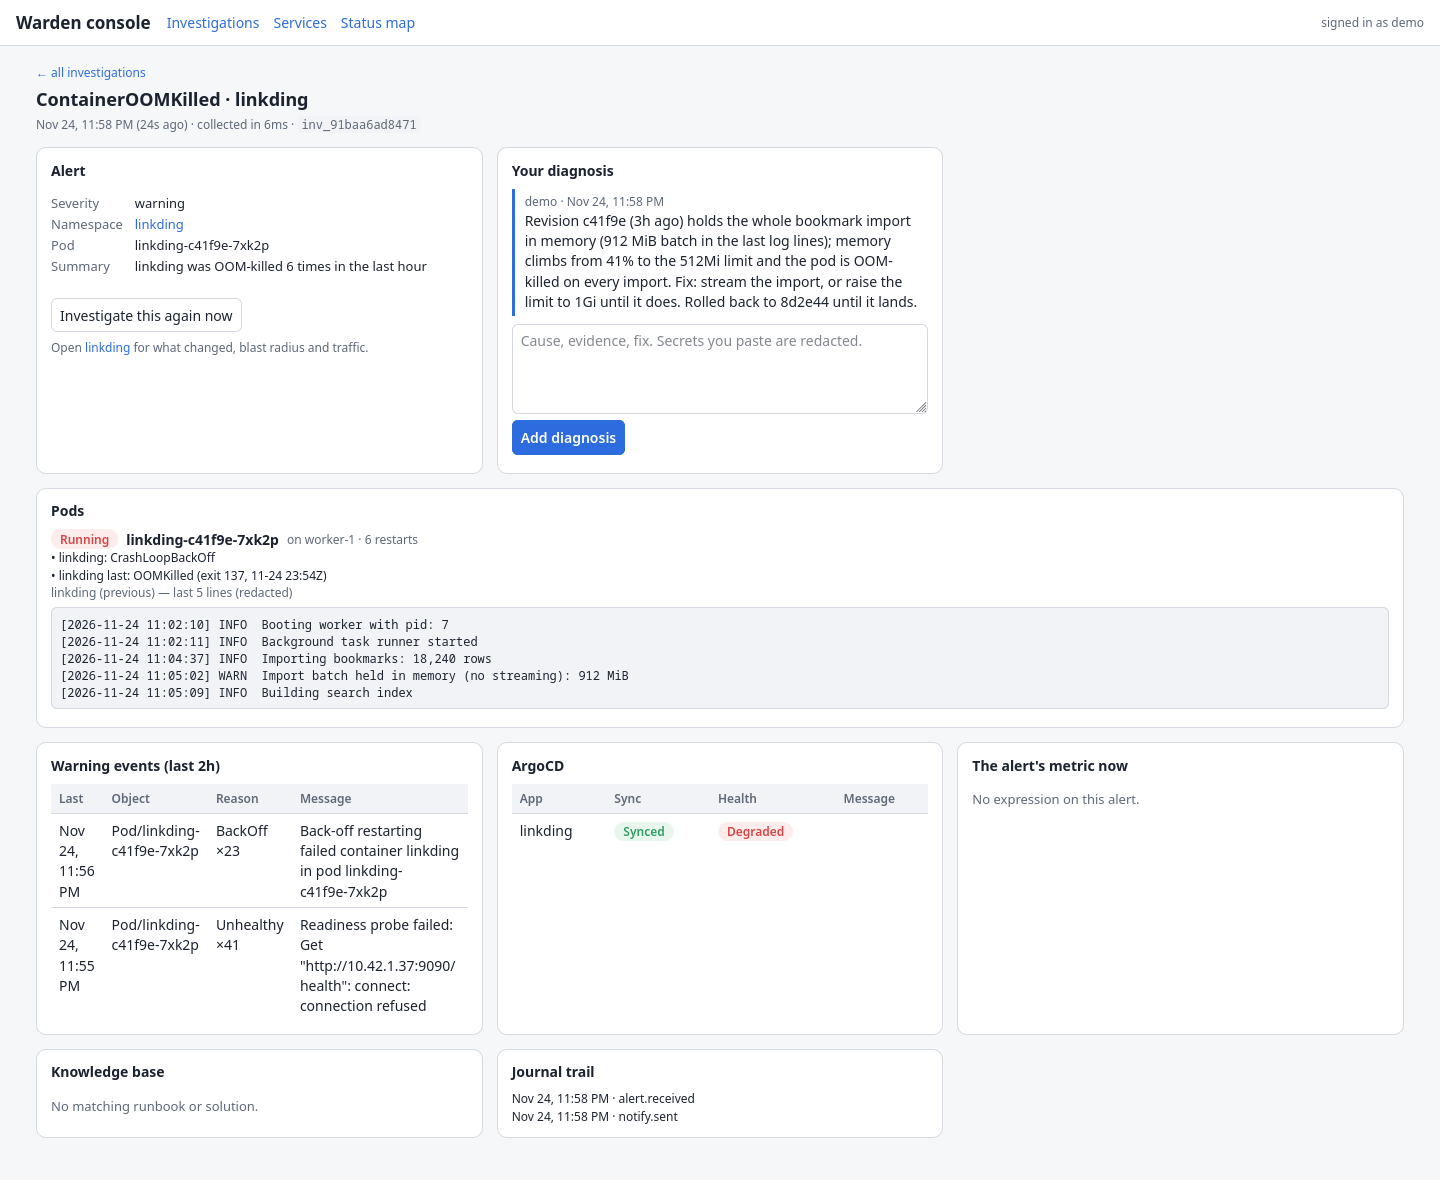
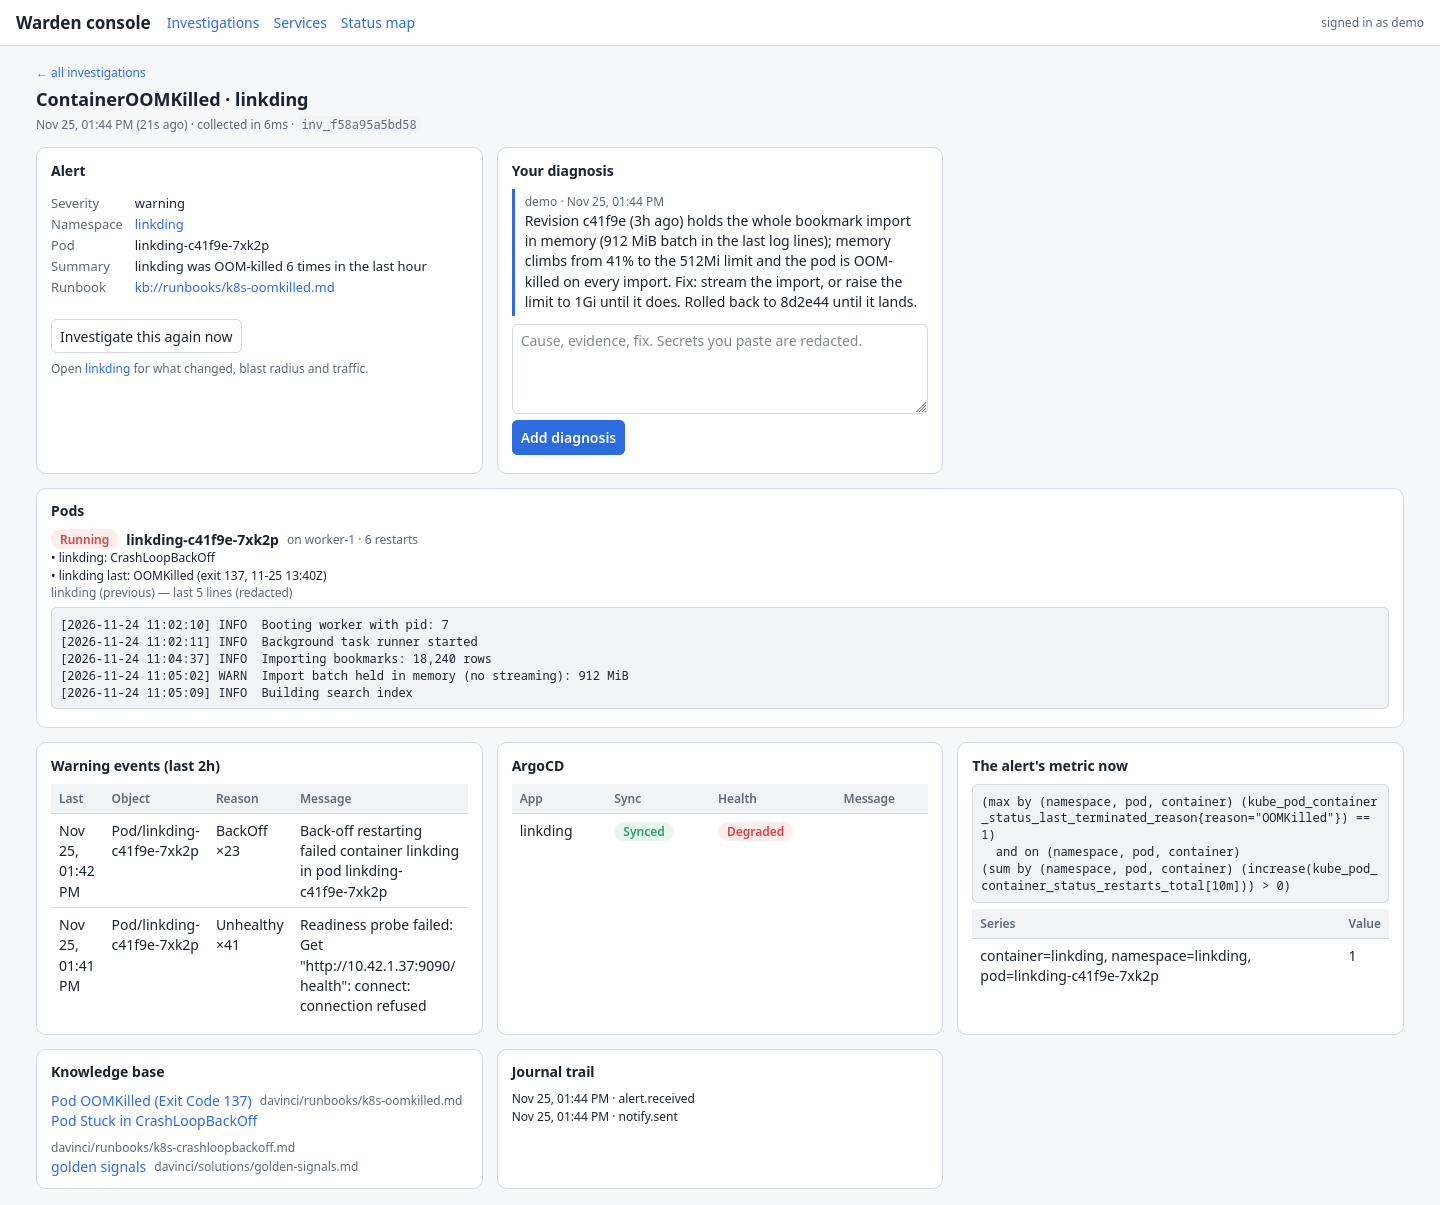
docs: complete investigation screenshot, scripts/screenshots.sh, badges
- warden-demo: the seeded alert carries Homelab's ContainerOOMKilled rule
  and runbook_url, and indexes a small stand-in knowledge base at DaVinci's
  paths, so the investigation page shows the rule evaluated now and KB hits
  instead of two empty panels.
- scripts/screenshots.sh regenerates all five README images in one command
  (replaces the manual Firefox recipe); services is cropped on a row.
- README: CI/image/Go badges, GET /console/api/whoami in the API table,
  fuller investigation caption, scripts/ in the layout. AGENTS.md points to
  the script.

Claude-Session: https://claude.ai/code/session_01XVAZikthQmgeJ2WQeL8ATi

diff --git a/cmd/warden-demo/main.go b/cmd/warden-demo/main.go
@@ -18,6 +18,7 @@ import (
 	"log/slog"
 	"net/http"
 	"net/http/httptest"
+	"net/url"
 	"os"
 	"os/signal"
 	"path/filepath"
@@ -53,11 +54,15 @@ func main() {
 	}
 	defer j.Close()
 
+	kbDir, err := demo.WriteKB(dir)
+	if err != nil {
+		fail(err)
+	}
 	src := demo.New(time.Now())
 	hosts := map[string]string{"grafana": "monitoring"}
 	srv := &server.Server{
 		J: j, Enabled: true, DailyCap: 40, Log: logger, Version: "demo",
-		Runner:     &investigate.Investigator{Kube: src, Metrics: src, KB: &kb.Index{}, Hosts: hosts},
+		Runner:     &investigate.Investigator{Kube: src, Metrics: src, KB: &kb.Index{Roots: []kb.Root{{Label: "davinci", Dir: kbDir}}}, Hosts: hosts},
 		Map:        &statusmap.Builder{Kube: src, Metrics: src, Hosts: hosts},
 		Services:   &services.Builder{Kube: src, Metrics: src, Kuma: src, Hosts: hosts, MonitorNS: demo.MonitorNS},
 		Console:    &console.Console{Kube: src, Metrics: src, J: j},
@@ -102,8 +107,11 @@ func seed(ctx context.Context, h http.Handler, src *demo.Source) error {
 		"status": "firing", "fingerprint": "demo-oom",
 		"labels": map[string]string{"alertname": "ContainerOOMKilled", "severity": "warning",
 			"namespace": "linkding", "pod": "linkding-c41f9e-7xk2p", "container": "linkding"},
-		"annotations": map[string]string{"summary": "linkding was OOM-killed 6 times in the last hour"},
-		"startsAt":    src.Now.Add(-48 * time.Minute),
+		"annotations": map[string]string{"summary": "linkding was OOM-killed 6 times in the last hour",
+			"runbook_url": "kb://runbooks/k8s-oomkilled.md"},
+		// Homelab's ContainerOOMKilled rule, as vmalert links it.
+		"generatorURL": "http://vmalert.monitoring.svc:8080/vmalert/alert?g0.expr=" + url.QueryEscape(oomRule),
+		"startsAt":     src.Now.Add(-48 * time.Minute),
 	}}}
 	b, _ := json.Marshal(alert)
 	if _, err := call(http.MethodPost, "/alerts", string(b)); err != nil {
@@ -133,6 +141,10 @@ func seed(ctx context.Context, h http.Handler, src *demo.Source) error {
 	}
 	return nil
 }
+
+const oomRule = `(max by (namespace, pod, container) (kube_pod_container_status_last_terminated_reason{reason="OOMKilled"}) == 1)
+  and on (namespace, pod, container)
+(sum by (namespace, pod, container) (increase(kube_pod_container_status_restarts_total[10m])) > 0)`
 
 func fail(err error) {
 	fmt.Fprintln(os.Stderr, "warden-demo:", err)

diff --git a/internal/demo/kb.go b/internal/demo/kb.go
@@ -1,0 +1,35 @@
+package demo
+
+import (
+	"embed"
+	"io/fs"
+	"os"
+	"path/filepath"
+)
+
+// kbFiles are short stand-ins for the DaVinci knowledge base, at the same
+// paths, so the demo's KB hits link to the real documents.
+//
+//go:embed kb
+var kbFiles embed.FS
+
+// WriteKB copies the demo knowledge base under dir and returns the root to
+// index (label "davinci", as in production).
+func WriteKB(dir string) (string, error) {
+	root := filepath.Join(dir, "kb")
+	err := fs.WalkDir(kbFiles, "kb", func(p string, d fs.DirEntry, err error) error {
+		if err != nil {
+			return err
+		}
+		out := filepath.Join(dir, filepath.FromSlash(p))
+		if d.IsDir() {
+			return os.MkdirAll(out, 0o755)
+		}
+		b, err := kbFiles.ReadFile(p)
+		if err != nil {
+			return err
+		}
+		return os.WriteFile(out, b, 0o644)
+	})
+	return root, err
+}

diff --git a/internal/demo/demo_test.go b/internal/demo/demo_test.go
@@ -2,6 +2,8 @@ package demo
 
 import (
 	"context"
+	"os"
+	"path/filepath"
 	"testing"
 	"time"
 
@@ -58,5 +60,17 @@ func TestDemoServesEveryPage(t *testing.T) {
 	b, err := c.Blast(ctx, "linkding")
 	if err != nil || len(b.Errors) != 0 || len(b.Callers) == 0 {
 		t.Fatalf("blast: %v %+v", err, b)
+	}
+}
+
+func TestWriteKB(t *testing.T) {
+	root, err := WriteKB(t.TempDir())
+	if err != nil {
+		t.Fatal(err)
+	}
+	for _, p := range []string{"runbooks/k8s-oomkilled.md", "runbooks/k8s-crashloopbackoff.md", "solutions/golden-signals.md"} {
+		if _, err := os.Stat(filepath.Join(root, p)); err != nil {
+			t.Error(err)
+		}
 	}
 }

diff --git a/internal/demo/demo.go b/internal/demo/demo.go
@@ -343,6 +343,9 @@ func (s *Source) Query(_ context.Context, expr string, _ int) ([]vm.Sample, erro
 		}
 		return out, nil
 	}
+	if strings.Contains(expr, "last_terminated_reason") { // the story's ContainerOOMKilled rule
+		return []vm.Sample{{Labels: map[string]string{"namespace": "linkding", "pod": "linkding-c41f9e-7xk2p", "container": "linkding"}, Value: "1"}}, nil
+	}
 	if strings.Contains(expr, "increase(") && strings.Contains(expr, "> 0") {
 		return s.blast(expr), nil
 	}

diff --git a/README.md b/README.md
@@ -1,5 +1,9 @@
 # Warden
 
+[![CI](https://github.com/Blacklotus89898/Warden/actions/workflows/ci.yaml/badge.svg)](https://github.com/Blacklotus89898/Warden/actions/workflows/ci.yaml)
+[![image](https://github.com/Blacklotus89898/Warden/actions/workflows/build-image.yaml/badge.svg)](https://github.com/Blacklotus89898/Warden/actions/workflows/build-image.yaml)
+![Go 1.25](https://img.shields.io/badge/go-1.25-00ADD8)
+
 A read-only incident investigator for the homelab. When an alert fires, Warden
 collects the evidence (pods, logs, events, ArgoCD, nodes, the alert's metric,
 runbooks), journals it and pushes a short digest to your phone. Its pages
@@ -49,8 +53,10 @@ diagnosed it yet. Behind authentik. [Details](#console).
 
 ![One investigation: the alert, your diagnosis, the crash-looping pod with its last log lines, warning events and ArgoCD state](docs/images/investigation.png)
 
-One investigation holds the evidence bundle and your diagnosis: what
-happened, why, and what fixed it. Diagnoses are append-only, and they become
+One investigation holds the evidence bundle (the pod and its previous
+container's last log lines, warning events, ArgoCD, the alert's rule
+evaluated now, matching runbooks) and your diagnosis: what happened, why,
+and what fixed it. Diagnoses are append-only, and they become
 the eval set for later phases.
 
 ![Namespace view: current signals and monitors, blast radius from observed mesh traffic, a what-changed timeline from deploy to OOM kill, and traffic charts](docs/images/namespace.png)
@@ -235,6 +241,7 @@ grouped as on the Kuma status page.
 | `GET /map` | the status map page: host → nodes → platform → observability → apps → front doors |
 | `GET /map.json` | the data behind it (rebuilt at most every 15s) |
 | `GET /console` | the operator console (behind authentik at the gateway) |
+| `GET /console/api/whoami` | the signed-in user, `WARDEN_ENABLED` and the version |
 | `GET /console/api/investigations[/{id}]` | investigations with source and diagnosis state; one bundle with its trail and diagnoses |
 | `POST /console/api/investigate` | `{"namespace","pod","node"}`: run the collectors now (journal only, no push) |
 | `POST /console/api/investigations/{id}/diagnosis` | `{"text"}`: append your diagnosis |
@@ -278,7 +285,8 @@ go run ./cmd/warden-demo          # every page on a made-up homelab, no cluster 
 
 The demo uses the real server, journal, collectors and pages, with fake
 Kubernetes, VictoriaMetrics and Uptime Kuma sources (`internal/demo`). It
-seeds an alert investigation, an operator investigation and a diagnosis,
+seeds an alert investigation (with its rule expression and knowledge-base
+hits from a small stand-in KB), an operator investigation and a diagnosis,
 and signs you into the console as `demo`. Nothing is pushed, and its journal
 is a temporary file that is removed on exit. Use it to work on a page:
 change the HTML, rerun, and reload.
@@ -290,13 +298,10 @@ go test ./...     # includes boundary_test.go: never weaken it to make a change 
 go build .        # the real binary; it only runs in-cluster (kube.InCluster)
 ```
 
-**Screenshots** in `docs/images/` come from the demo. Start it, then capture
-each page at 1440px wide:
-`/map`, `/services#range=24h&open=linkding`, `/console#/`,
-`/console#/inv/<the ContainerOOMKilled id>` and `/console#/ns/linkding`.
-For example, `firefox --headless --screenshot out.png --window-size=1440,1000 <url>`
-works, but it captures on page load, so delay the page until its data has
-rendered.
+**Screenshots** in `docs/images/` come from the demo:
+`scripts/screenshots.sh` (needs `python3` and `firefox`) starts it, captures
+the five pages at 1440px wide and stops it. Rerun it after a visible UI
+change and commit the images with the change.
 
 **Ship:** merge to `main`. `build-image.yaml` publishes
 `ghcr.io/blacklotus89898/warden:<sha>`. Bump that SHA in Homelab
@@ -326,6 +331,7 @@ internal/console       /console data: timeline, traffic, blast radius (+ console
 internal/authjwt       verifies authentik's X-Authentik-Jwt against the provider JWKS
 internal/server        HTTP handlers, grouping, rate limits, console guards
 internal/demo          fake sources for cmd/warden-demo (not used by the real binary)
+scripts/screenshots.sh regenerates docs/images from the demo
 ```
 
 Pages are single embedded HTML files with inline JS (no build step, no

diff --git a/AGENTS.md b/AGENTS.md
@@ -26,7 +26,7 @@ go run ./cmd/warden-demo     # every page on fake data at http://localhost:8080 
 
 The real binary (`go build .`) only runs in-cluster. Use the demo to see a UI change. When a
 page starts reading something new, extend `internal/demo` so `TestDemoServesEveryPage` stays
-green, and refresh the affected screenshot in `docs/images/` (README "Getting started").
+green, and rerun `scripts/screenshots.sh` to refresh `docs/images/` (README "Getting started").
 
 CI (`.github/workflows/ci.yaml`) runs vet/build/test on PRs and `main`;
 `build-image.yaml` publishes `ghcr.io/blacklotus89898/warden:<sha>` from `main`.
@@ -37,7 +37,8 @@ See README "Layout". In short: `main.go` wiring; `internal/kube` is the ONLY Kub
 client (GET on a fixed catalogue); `internal/investigate` collectors; `internal/statusmap`,
 `internal/services`, `internal/console` back the three pages (each embeds its HTML);
 `internal/authjwt` verifies the console user; `internal/server` handlers and limits;
-`internal/demo` + `cmd/warden-demo` are fake sources for local work, never used in production.
+`internal/demo` + `cmd/warden-demo` are fake sources for local work, never used in production;
+`scripts/screenshots.sh` regenerates the README images from the demo.
 
 ## Non-negotiables
 

diff --git a/internal/demo/kb/runbooks/k8s-oomkilled.md b/internal/demo/kb/runbooks/k8s-oomkilled.md
@@ -1,0 +1,6 @@
+# Pod OOMKilled (Exit Code 137)
+
+Demo stand-in for the DaVinci runbook of the same path. The container went
+past resources.limits.memory and the kernel killed it (OOMKilled, exit 137).
+Compare the working set with the limit before and after the last deploy;
+raise the limit in git, or find what holds the memory.

diff --git a/internal/demo/kb/runbooks/k8s-crashloopbackoff.md b/internal/demo/kb/runbooks/k8s-crashloopbackoff.md
@@ -1,0 +1,5 @@
+# Pod Stuck in CrashLoopBackOff
+
+Demo stand-in for the DaVinci runbook of the same path. Read the previous
+container's logs and its last terminated reason (OOMKilled, Error) before
+restarting anything: the crash is in the instance that died.

diff --git a/internal/demo/kb/solutions/golden-signals.md b/internal/demo/kb/solutions/golden-signals.md
@@ -1,0 +1,5 @@
+# golden signals
+
+Demo stand-in for the DaVinci solution of the same path. Traffic, errors,
+latency and saturation per service; ContainerOOMKilled and
+ContainerMemoryNearLimit page on memory saturation against the limit.
